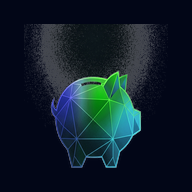
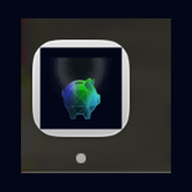
style(ui): force revert to solid crystal pig image and improve alignment

diff --git a/src/components/ui/logo.tsx b/src/components/ui/logo.tsx
@@ -10,68 +10,27 @@ interface LogoProps {
 export function Logo({ className = "", size = 32, showText = true, monochrome = false }: LogoProps) {
     return (
         <div className={`flex items-center gap-3 ${className}`}>
-            {/* 
-                Premium Fintech Logo: "The Secure Piggy"
-                Constructed with solid geometric shapes for maximum legibility and trust.
-            */}
-            <div className="relative flex items-center justify-center">
-                <svg width={size} height={size} viewBox="0 0 40 40" fill="none" xmlns="http://www.w3.org/2000/svg">
-                    <defs>
-                        <linearGradient id="premium-gradient" x1="0" y1="40" x2="40" y2="0" gradientUnits="userSpaceOnUse">
-                            <stop offset="0%" stopColor="#059669" />   {/* Deep Emerald */}
-                            <stop offset="100%" stopColor="#34d399" /> {/* Bright Emerald */}
-                        </linearGradient>
-                        <linearGradient id="coin-gradient" x1="10" y1="0" x2="30" y2="20" gradientUnits="userSpaceOnUse">
-                            <stop offset="0%" stopColor="#F59E0B" />   {/* Amber/Gold */}
-                            <stop offset="100%" stopColor="#FCD34D" /> {/* Light Gold */}
-                        </linearGradient>
-                        <filter id="soft-glow" x="-50%" y="-50%" width="200%" height="200%">
-                            <feGaussianBlur in="SourceGraphic" stdDeviation="1" />
-                        </filter>
-                    </defs>
-
-                    {/* Main Body - Solid & Trustworthy */}
-                    <path
-                        fill={monochrome ? "currentColor" : "url(#premium-gradient)"}
-                        d="M36 20C36 28.8366 28.8366 36 20 36C12.5 36 6.2 31.0 4.5 24.0C4.1 22.5 4 21 4 20C4 11.1634 11.1634 4 20 4C28.8366 4 36 11.1634 36 20Z"
-                        className={monochrome ? "text-slate-200" : ""}
-                    />
-
-                    {/* The Coin / Slot - Suggests Investment/Savings */}
-                    <circle cx="20" cy="14" r="3" fill="white" fillOpacity="0.2" />
-                    <rect x="17" y="13" width="6" height="2" rx="1" fill="white" />
-
-                    {/* Minimalist Piggy Details (Snout & Ear) - Subtractive Geometry */}
-                    <path
-                        d="M32 20C32 21.5 31 22.5 30 23V17C31 17.5 32 18.5 32 20Z"
-                        fill={monochrome ? "#0f172a" : "#065f46"} // Darker shade for contrast
-                        fillOpacity="0.3"
-                    />
-                    {/* Ear */}
-                    <path
-                        d="M24 6L28 10L23 11L24 6Z"
-                        fill={monochrome ? "#0f172a" : "#022c22"}
-                        fillOpacity="0.2"
-                    />
-                </svg>
+            <div className={`flex items-center justify-center ${monochrome ? 'grayscale opacity-90' : ''}`}>
+                <img
+                    src="/logo-icon.png"
+                    alt="MyWallet Piggy"
+                    width={size}
+                    height={size}
+                    className="object-contain relative z-10"
+                />
             </div>
 
             {showText && (
-                <div className="flex flex-col justify-center">
+                <div className="flex flex-col justify-center pt-1">
                     <span
-                        className={`font-bold tracking-tight leading-none ${size > 40 ? 'text-2xl' : 'text-xl'
+                        className={`font-extrabold bg-clip-text text-transparent tracking-tight leading-none ${size > 40 ? 'text-2xl' : 'text-lg'
                             } ${monochrome
-                                ? 'text-slate-200'
-                                : 'text-white'
+                                ? 'bg-slate-200'
+                                : 'bg-gradient-to-r from-emerald-400 to-blue-500'
                             }`}
                     >
                         MyWallet
                     </span>
-                    {size > 40 && !monochrome && (
-                        <span className="text-[10px] text-emerald-500 font-medium tracking-widest uppercase ml-0.5">
-                            Gestão Inteligente
-                        </span>
-                    )}
                 </div>
             )}
         </div>
